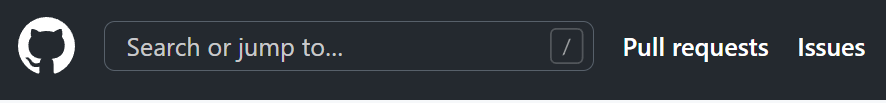
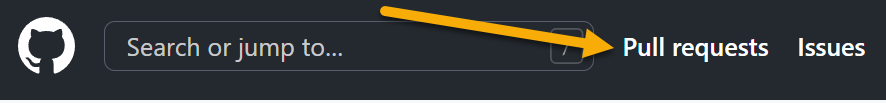
PR lab docs

Changed region(s): [[0.4266, 0.0583, 0.7009, 0.5534]]

diff --git a/labs/pull-requests/README.md b/labs/pull-requests/README.md
@@ -1,21 +1,30 @@
 # Pull Requests
 
-Pushing changes to the main branch kicks off a build pipeline which could be configured to deploy to production. The pipeline can have lots of safeguards but teams usually like to have a manual review process. GitHub and other Git systems let you protect the main branch, so the only way to merge changes from a feature branch is using a Pull Request (PR).
+Pushing changes to the main branch kicks off a build pipeline which could be configured to deploy to production. The pipeline can have lots of automated safeguards but teams usually like to have a manual review process. GitHub and other Git systems let you protect the main branch, so the only way to merge changes from a feature branch is using a Pull Request (PR).
 
 In this lab you'll create your own PR and review someone else's PR so you can experience the workflow.
 
 ## Reference
 
-- 
+- [Pull Requests tutorial](https://www.atlassian.com/git/tutorials/making-a-pull-request) - Atlassian
+
+- [About Pull Requests](https://docs.github.com/en/pull-requests/collaborating-with-pull-requests/proposing-changes-to-your-work-with-pull-requests/about-pull-requests) - GitHub
+
+- [GitHub Pull Requests from Start to Finish](https://app.pluralsight.com/library/courses/github-pull-requests-from-start-finish/table-of-contents) - Pluralsight
 
 ## Pair up and create a PR!
 
 For this lab you'll need someone to pair up with, so you can see how the pull request workflow goes:
 
 - find your partner
-- share the URL for your GitHub forks
+- share the URLs for each other's GitHub forks
+- something like https://github.com/sixeyed/dev
 
-Open your partner's fork in GitHub. You can make simple changes direct from the GitHub website. Navigate through the file list in the _Code_ view and open a file (any file will do) - then click the pencil icon to edit it:
+> Your partner won't have permission to push changes to your fork. The only way they can change code in your repo is with a Pull Request which you need to approve.
+
+Open your partner's fork in GitHub. You can make simple changes direct from the GitHub website, you don't need to download the code onto your machine. 
+
+Navigate through the file list in the _Code_ view and open a file (any file will do) - then click the pencil icon to edit it:
 
 ![](/img/pull-requests/edit-file.png)
 
@@ -28,37 +37,55 @@ GitHub checks your changes can be merged without a conflict. Now you can select 
 
 ![](/img/pull-requests/create-pr.png)
 
-When you're done, browse back to your own fork. You should have a PR to review from your partner :)
-
+When you're done, wait for your partner to create their PR for your branch. You'll get an email when there's a new PR to review - you should get one soon :)
 
 ## Review the PR
 
-Open the Pull requests view and then open the PR your partner sent in.
+Your email from GitHub will have a lot of technical information, including the user ID of the person requesting the change, and the list of files they changed. The link at the top of the email will open the PR in GitHub:
+
+![](/img/pull-requests/github-email.png)
+
+> You can also browse to the Pull Requests tab in your repo on GitHub; it shows the list of all open PRs.
+
+Open the PR your partner sent in. You can add comments to the PR, or you can drill down into the files that were changed and add notes to specific lines.
 
 Click on the _Files changed_ tab and select _Review changes_:
 
-![](review)
+![](/img/pull-requests/create-review.png)
 
-You can add a comment, request changes or approve.
+You can add a comment, request changes or approve. This is usually a repeated cycle:
 
-When you've added your review, open the _Pull requests_ link at the top of the GitHub window:
+- the reviewer has some feedback that needs a change
+- developer makes the change on their machine and pushes to the branch
+- GitHub updates the PR to show there are changes
+- reviewer looks again
 
-![](PRS)
+The developer and the reviewer might be sat next to each other in the office or they might be in different countries with different timezones. Recording all the feedback in the PR creates an audit trail of what was done, when and by whom.
 
-These are your own PRs which you've created. From here you can see your partner's feedback on your proposed changes.
+When you've added your review, open the _Pull requests_ link at the very top of the GitHub window:
+
+![](/img/pull-requests/topbar-pr.png)
+
+These are your own PRs which you've created - they could be for multiple repos. From here you can see your partner's feedback on your proposed changes.
 
 You can add comments, make more changes or close the PR - which means your changes won't get merged.
 
+## Complete the PR
 
-## Merge the PR
+Back in your own repo, find the PR your partner sent in.
 
-If you're happy after the review you can merge the PR:
+If you're happy after the review you can merge the PR, which means your partner's changes will be merged into your own fork:
 
-![](merge)
+![](/img/pull-requests/merge-pr.png)
 
 This brings your partner's changes into your fork - it's a special form of merge and commit.
 
-Check the Actions tab after you merge, what's happening with the build?
+If you do merge the PR, check the Actions tab in your repo; what's happening with the build?
+
+Or if you don't want their updates, you can close the PR with a comment:
+
+![](/img/pull-requests/close-pr.png)
+
 
 ## Lab
 
